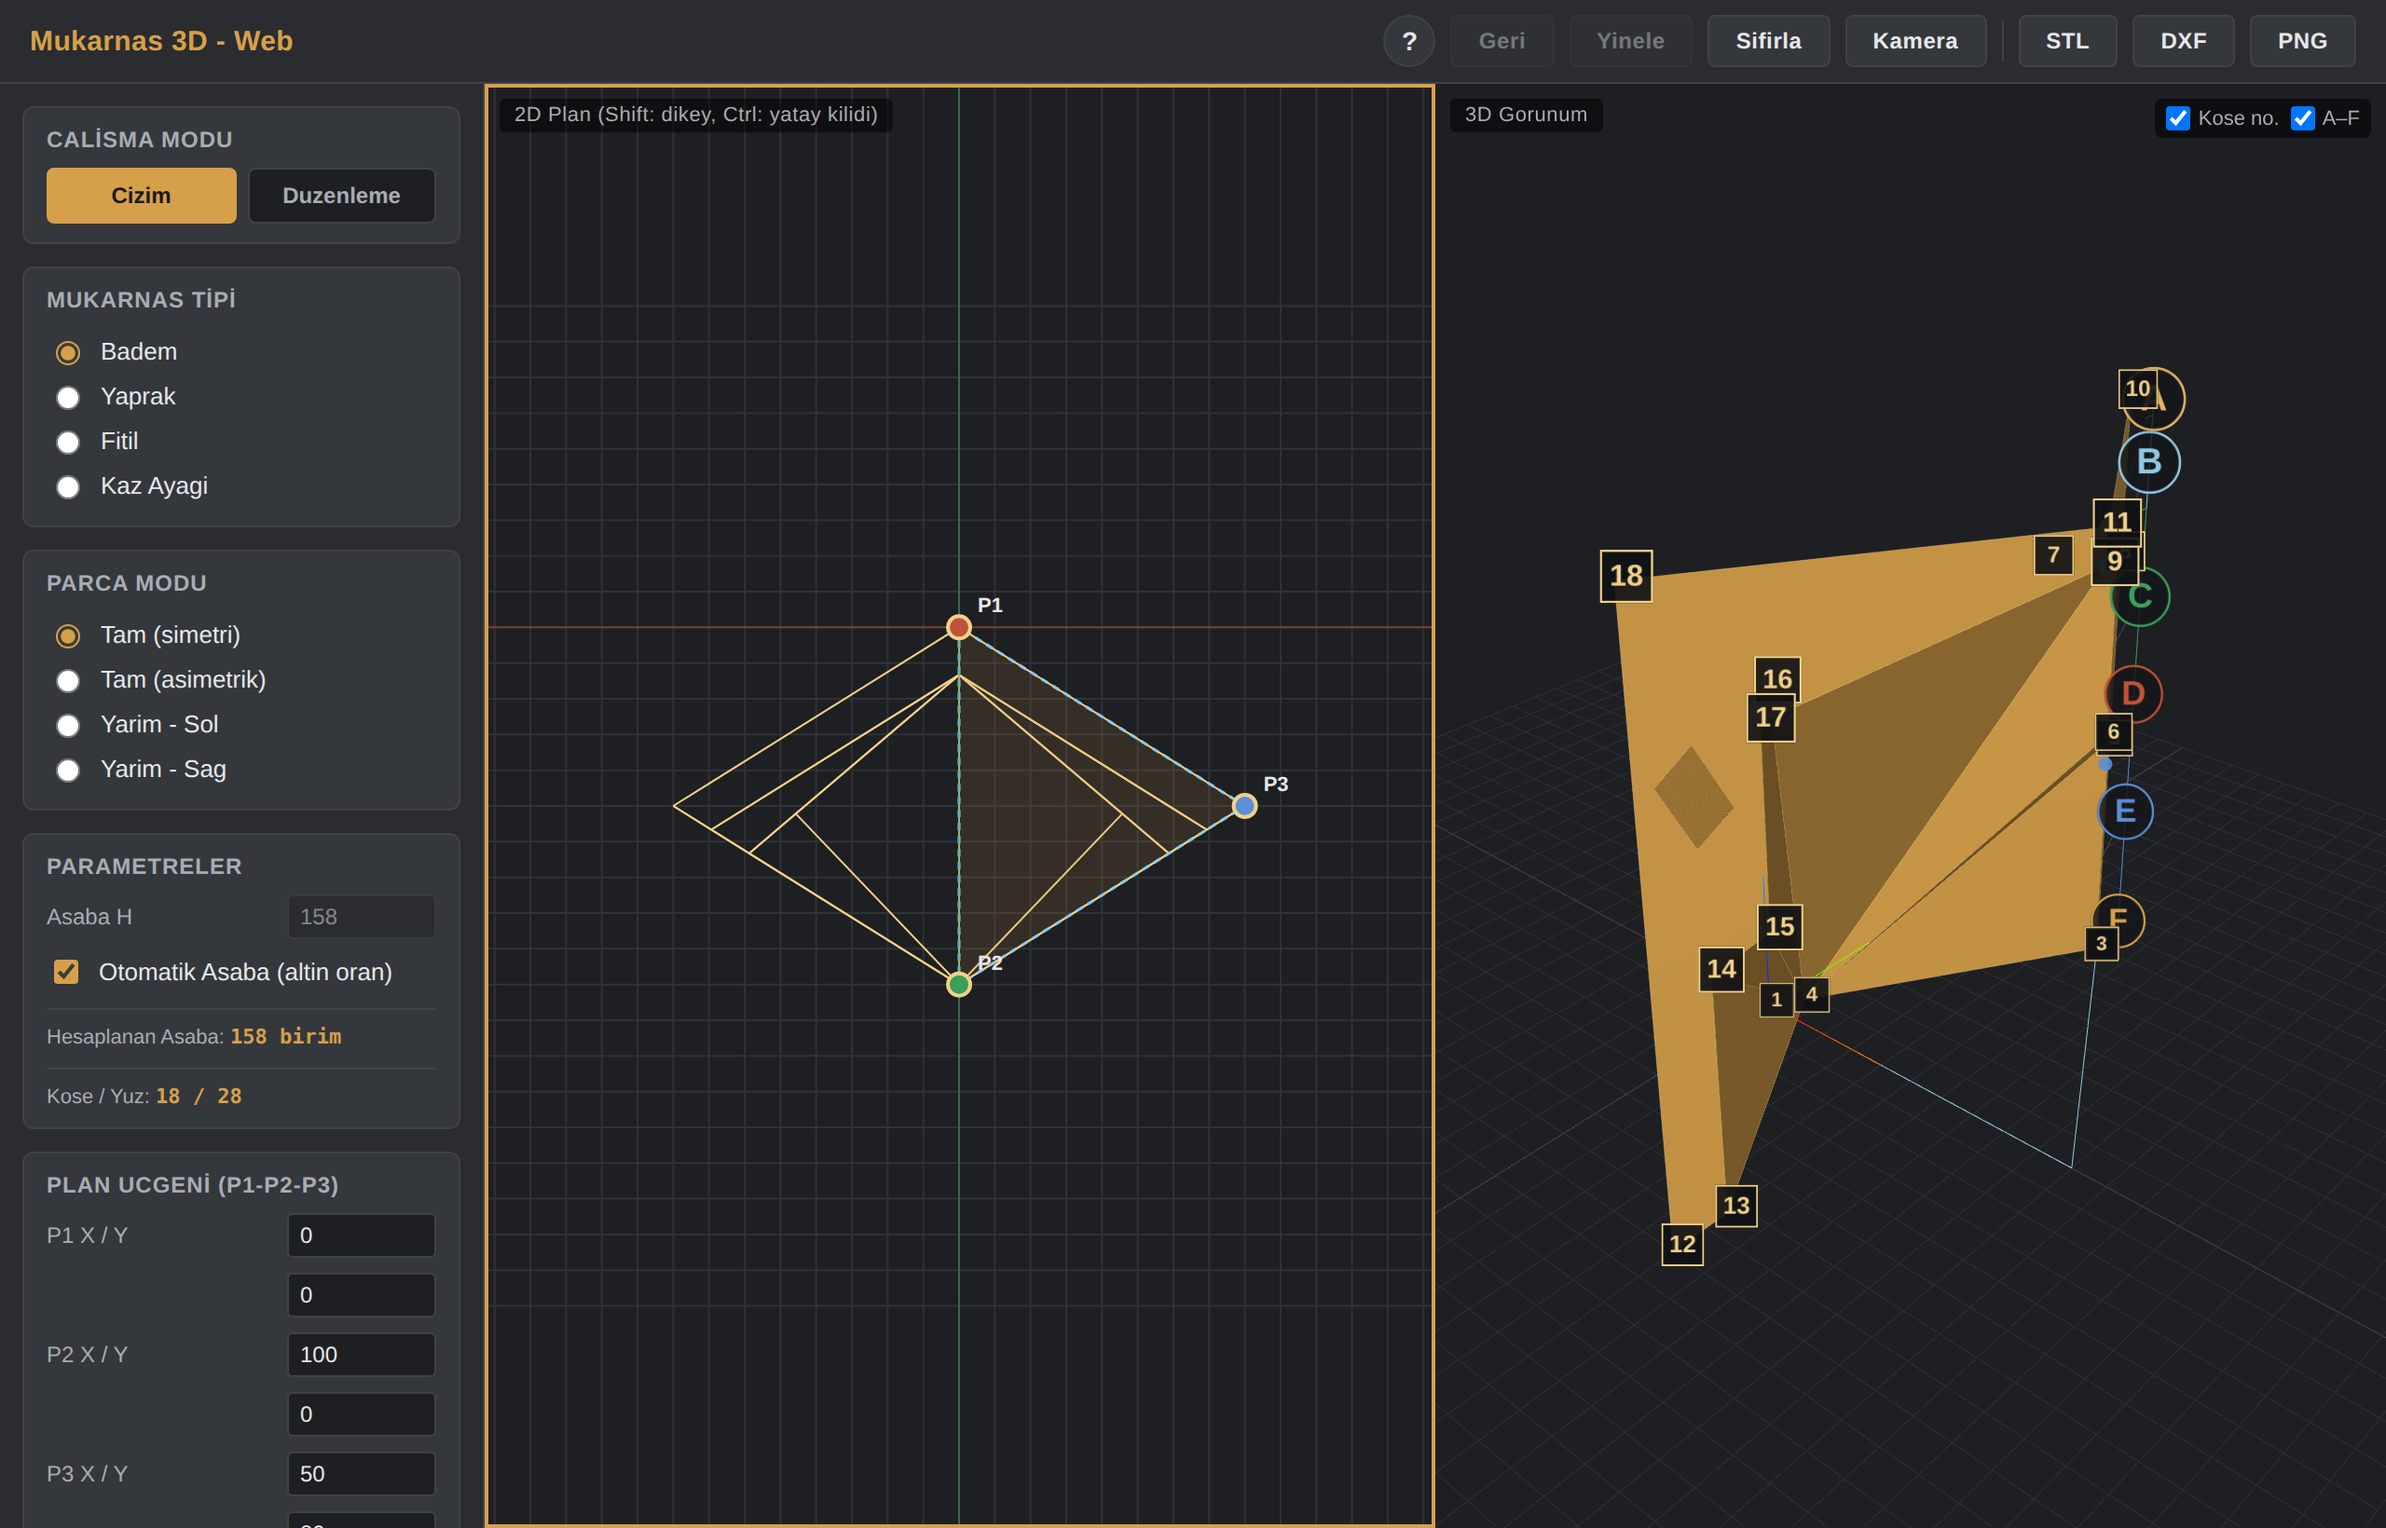
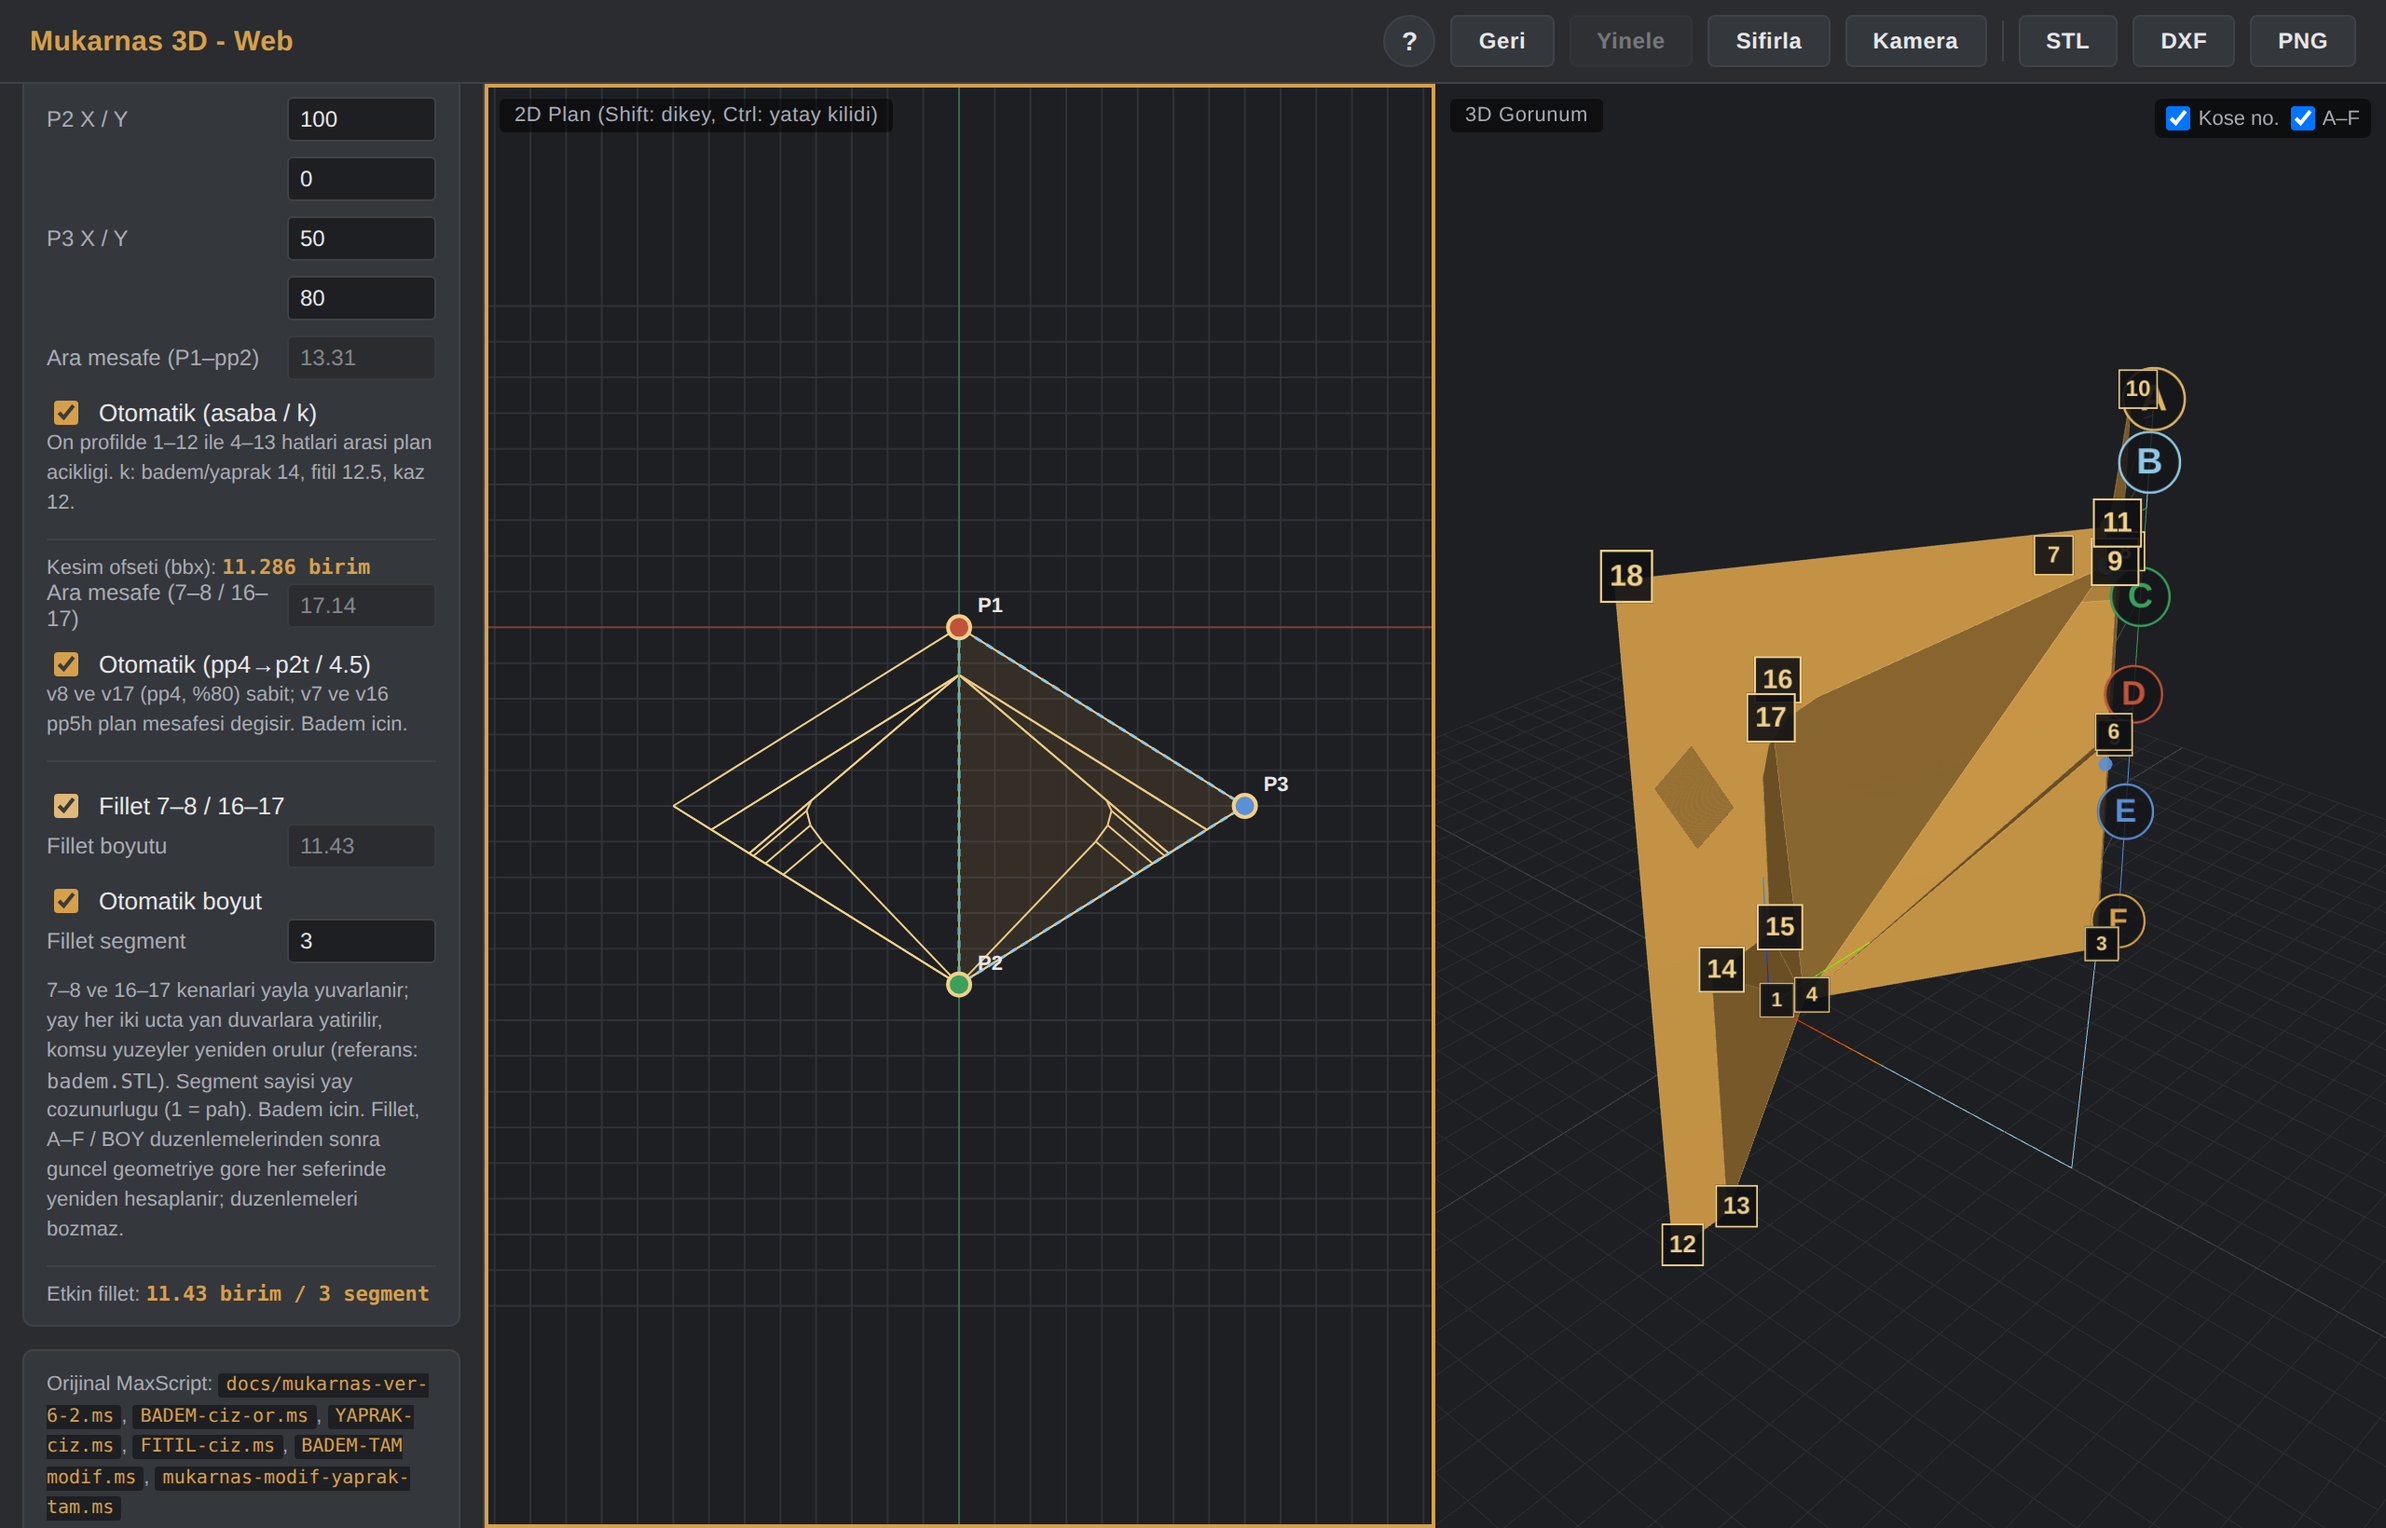
Mukarnas 3D v2 yayina alindi; v1 arsiv olarak korunuyor

Changed region(s): [[0.0, 0.3421, 0.1875, 1.0], [0.0, 0.0622, 0.1875, 0.3421], [0.3125, 0.5287, 0.3438, 0.5598]]

diff --git a/index.html b/index.html
@@ -71,6 +71,17 @@
   }
   .body{padding:26px 28px 28px; display:flex; flex-direction:column; flex:1}
   .card h3{font-size:24px; margin:0 0 8px; letter-spacing:-.01em; font-weight:700}
+  .ver{
+    font-size:12px; font-weight:800; letter-spacing:.06em; vertical-align:middle;
+    background:var(--accent); color:var(--accent-ink); padding:2px 8px; border-radius:99px;
+    margin-left:8px; position:relative; top:-2px;
+  }
+  .prev{
+    margin:16px 0 0 !important; padding-top:14px; border-top:1px solid var(--line);
+    font-size:13px !important; color:var(--muted); flex:none !important;
+  }
+  .prev a{color:var(--muted); text-decoration:underline; text-underline-offset:2px}
+  .prev a:hover{color:var(--accent)}
   .card p{margin:0 0 20px; color:var(--muted); font-size:16px; flex:1}
   .tags{display:flex; flex-wrap:wrap; gap:6px; margin:0 0 18px}
   .tag{font-size:12px; color:var(--muted); background:var(--chip); border-radius:999px; padding:3px 10px}
@@ -146,17 +157,19 @@
       <article class="card">
         <img class="shot" src="assets/shot-muk3d.png" alt="Mukarnas 3D ekran görüntüsü" />
         <div class="body">
-          <h3>Mukarnas 3D</h3>
-          <p>Mukarnas (sarkıt tavan süslemesi) tiplerini parametrik olarak 3B modelleyen; dışa aktarım destekli web aracı.</p>
+          <h3>Mukarnas 3D <span class="ver">v2</span></h3>
+          <p>Mukarnas (sarkıt tavan süslemesi) tiplerini parametrik olarak 3B modeller. v2 ile 7–8 ve 16–17 kenarlarına yay şeklinde <strong>fillet</strong> (yuvarlatma) uygulanabiliyor; yay yan duvarlara yatırılıp komşu yüzeyler yeniden örülüyor.</p>
           <div class="tags">
             <span class="tag">Mukarnas</span>
+            <span class="tag">Fillet</span>
             <span class="tag">3B görüntüleyici</span>
             <span class="tag">DXF / STL / PNG</span>
           </div>
           <div class="actions">
-            <a class="btn primary" href="projects/AI_muk3d/index.html">Aç &rarr;</a>
-            <a class="btn ghost" href="https://github.com/ahmet3ddd/ahmetoff/tree/main/projects/AI_muk3d">Kaynak</a>
+            <a class="btn primary" href="projects/AI_muk3d_V2/index.html">Aç &rarr;</a>
+            <a class="btn ghost" href="https://github.com/ahmet3ddd/ahmetoff/tree/main/projects/AI_muk3d_V2">Kaynak</a>
           </div>
+          <p class="prev">Önceki sürüm: <a href="projects/AI_muk3d/index.html">v1'i aç</a> · <a href="https://github.com/ahmet3ddd/ahmetoff/tree/main/projects/AI_muk3d">kaynağı</a></p>
         </div>
       </article>
 

diff --git a/projects/AI_muk3d_V2/README.md b/projects/AI_muk3d_V2/README.md
@@ -1,0 +1,48 @@
+# Mukarnas 3D — v2
+
+Mukarnas (sarkıt tavan süslemesi) tiplerini parametrik olarak 2B ve 3B modelleyen, tarayıcıda çalışan tasarım aracı. **Bu, aracın güncel sürümüdür.**
+
+**▶ Canlı demo:** https://ahmet3ddd.github.io/ahmetoff/projects/AI_muk3d_V2/
+
+<img src="../../assets/shot-muk3d.png" alt="Mukarnas 3D v2" width="100%" />
+
+## v2'de yeni: Fillet (kenar yuvarlatma)
+
+7–8 ve 16–17 kenarları yay şeklinde yuvarlanabiliyor. Yay her iki uçta yan duvarlara yatırılıyor ve komşu yüzeyler yeniden örülüyor — yani yuvarlatma sonradan eklenen bir görsel efekt değil, mesh'in kendisi yeniden inşa ediliyor.
+
+- **Otomatik boyut** — fillet yarıçapı güncel geometriden hesaplanır, elle de girilebilir
+- **Segment sayısı** — yayın çözünürlüğünü belirler (1 = düz pah, artırdıkça yay yumuşar)
+- **Düzenlemeye dayanıklı** — A–F ve BOY düzenlemelerinden sonra fillet güncel geometriye göre yeniden hesaplanır, yaptığınız düzenlemeleri bozmaz
+
+Badem tipi için tasarlandı; referans olarak `badem.STL` alındı.
+
+## Özellikler
+
+- Mukarnas tipleri: **Badem**, **Yaprak**, **Fitil**, **Kaz Ayağı**
+- Çalışma modları: **Çizim** ve **Düzenleme**
+- Parça modları: tam (simetri), tam (asimetrik), yarım sol/sağ
+- Otomatik asaba (altın oran) hesabı, plan üçgeni (P1-P2-P3) girişi
+- Eş zamanlı 2B plan ve 3B görünüm, köşe/yüz numaralandırma
+- Geri / Yinele desteği
+- **DXF**, **STL** ve **PNG** dışa aktarım
+
+## Kullanım
+
+Kurulum gerekmez. `index.html` dosyasını tarayıcıda aç (3B için internet bağlantısı gerekir — Three.js CDN'den yüklenir).
+
+## Sürüm geçmişi
+
+| Sürüm | Klasör | Durum |
+|---|---|---|
+| **v2** | `AI_muk3d_V2` | Güncel — fillet desteği eklendi |
+| v1 | [`AI_muk3d`](../AI_muk3d) | Arşiv — fillet öncesi hâli, çalışır durumda korunuyor |
+
+v1'i denemek isterseniz: [canlı demo](https://ahmet3ddd.github.io/ahmetoff/projects/AI_muk3d/)
+
+## Teknoloji
+
+Saf HTML/CSS/JavaScript + [Three.js](https://threejs.org) r147.
+
+---
+
+← [Tüm projeler](../../)

diff --git a/README.md b/README.md
@@ -33,12 +33,16 @@ Farklı kemer tiplerini (Tek Merkezli Teğet, Penci) parametrelerle 3B modeller.
 
 [▶ Aç](https://ahmet3ddd.github.io/ahmetoff/projects/AI_Kemer/) · [Kaynak](projects/AI_Kemer)
 
-### Mukarnas 3D
+### Mukarnas 3D `v2`
 Mukarnas (sarkıt tavan süslemesi) tiplerini — Badem, Yaprak, Fitil, Kaz Ayağı — parametrik olarak 3B modeller. Çizim ve düzenleme modları.
 
-<img src="assets/shot-muk3d.png" alt="Mukarnas 3D" width="100%" />
+**v2'de yeni:** 7–8 ve 16–17 kenarlarına yay şeklinde **fillet** (yuvarlatma) uygulanabiliyor. Yay her iki uçta yan duvarlara yatırılıyor ve komşu yüzeyler yeniden örülüyor; boyut otomatik hesaplanabiliyor, segment sayısı yay çözünürlüğünü belirliyor (1 = pah). Fillet, A–F/BOY düzenlemelerinden sonra güncel geometriye göre yeniden hesaplanır, düzenlemeleri bozmaz.
 
-[▶ Aç](https://ahmet3ddd.github.io/ahmetoff/projects/AI_muk3d/) · [Kaynak](projects/AI_muk3d)
+<img src="assets/shot-muk3d.png" alt="Mukarnas 3D v2" width="100%" />
+
+[▶ Aç (v2)](https://ahmet3ddd.github.io/ahmetoff/projects/AI_muk3d_V2/) · [Kaynak](projects/AI_muk3d_V2)
+
+<sub>Önceki sürüm: [v1'i aç](https://ahmet3ddd.github.io/ahmetoff/projects/AI_muk3d/) · [kaynağı](projects/AI_muk3d) — fillet öncesi hâli, çalışır durumda korunuyor.</sub>
 
 ### Köşe Mukarnas
 Köşe mukarnaslarını üçgen plan (P1-P2-P3) üzerinden kurgular. Eşkenar/dik üçgen veya özel koordinat şablonu, asaba sayısı ve kademelerle 3B form üretir.
@@ -84,7 +88,8 @@ ahmetoff/
 ├── assets/         → Açılış sayfası ve README görselleri
 ├── projects/       → Her bağımsız proje kendi klasöründe
 │   ├── AI_Kemer/       Kemerler 3D
-│   ├── AI_muk3d/       Mukarnas 3D
+│   ├── AI_muk3d_V2/    Mukarnas 3D — güncel sürüm (v2)
+│   ├── AI_muk3d/       Mukarnas 3D — önceki sürüm (v1, arşiv)
 │   ├── AI_K_muk3d/     Köşe Mukarnas
 │   ├── AI_Puskul/      Püskül 3D
 │   ├── AI_7-8/         Yedi-Sekiz

diff --git a/projects/AI_muk3d/README.md b/projects/AI_muk3d/README.md
@@ -1,10 +1,12 @@
-# Mukarnas 3D
+# Mukarnas 3D — v1 (önceki sürüm)
 
-Mukarnas (sarkıt tavan süslemesi) tiplerini parametrik olarak 2B ve 3B modelleyen, tarayıcıda çalışan bir tasarım aracı.
+> **Bu, aracın önceki sürümüdür.** Güncel sürüm için: **[Mukarnas 3D v2](../AI_muk3d_V2)** → [canlı demo](https://ahmet3ddd.github.io/ahmetoff/projects/AI_muk3d_V2/)
+>
+> v2, 7–8 ve 16–17 kenarlarına yay şeklinde **fillet** (yuvarlatma) uygulayabiliyor. Bu sürümde o özellik yok.
 
-**▶ Canlı demo:** https://ahmet3ddd.github.io/ahmetoff/projects/AI_muk3d/
+Bu sürüm, karşılaştırma yapmak veya v1 ile üretilmiş çalışmaları yeniden açmak isteyenler için çalışır durumda korunuyor.
 
-<img src="../../assets/shot-muk3d.png" alt="Mukarnas 3D" width="100%" />
+**▶ v1 canlı demo:** https://ahmet3ddd.github.io/ahmetoff/projects/AI_muk3d/
 
 ## Özellikler
 
@@ -13,7 +15,7 @@ Mukarnas (sarkıt tavan süslemesi) tiplerini parametrik olarak 2B ve 3B modelle
 - Parça modları: tam (simetri), tam (asimetrik), yarım sol/sağ
 - Otomatik asaba (altın oran) hesabı, plan üçgeni (P1-P2-P3) girişi
 - Eş zamanlı 2B plan ve 3B görünüm, köşe/yüz numaralandırma
-- **DXF**, **STL** ve **PNG** olarak dışa aktarım
+- **DXF**, **STL** ve **PNG** dışa aktarım
 
 ## Kullanım
 
@@ -25,4 +27,4 @@ Saf HTML/CSS/JavaScript + [Three.js](https://threejs.org) r147.
 
 ---
 
-← [Tüm projeler](../../)
+← [Tüm projeler](../../) · [Güncel sürüme geç (v2)](../AI_muk3d_V2)
